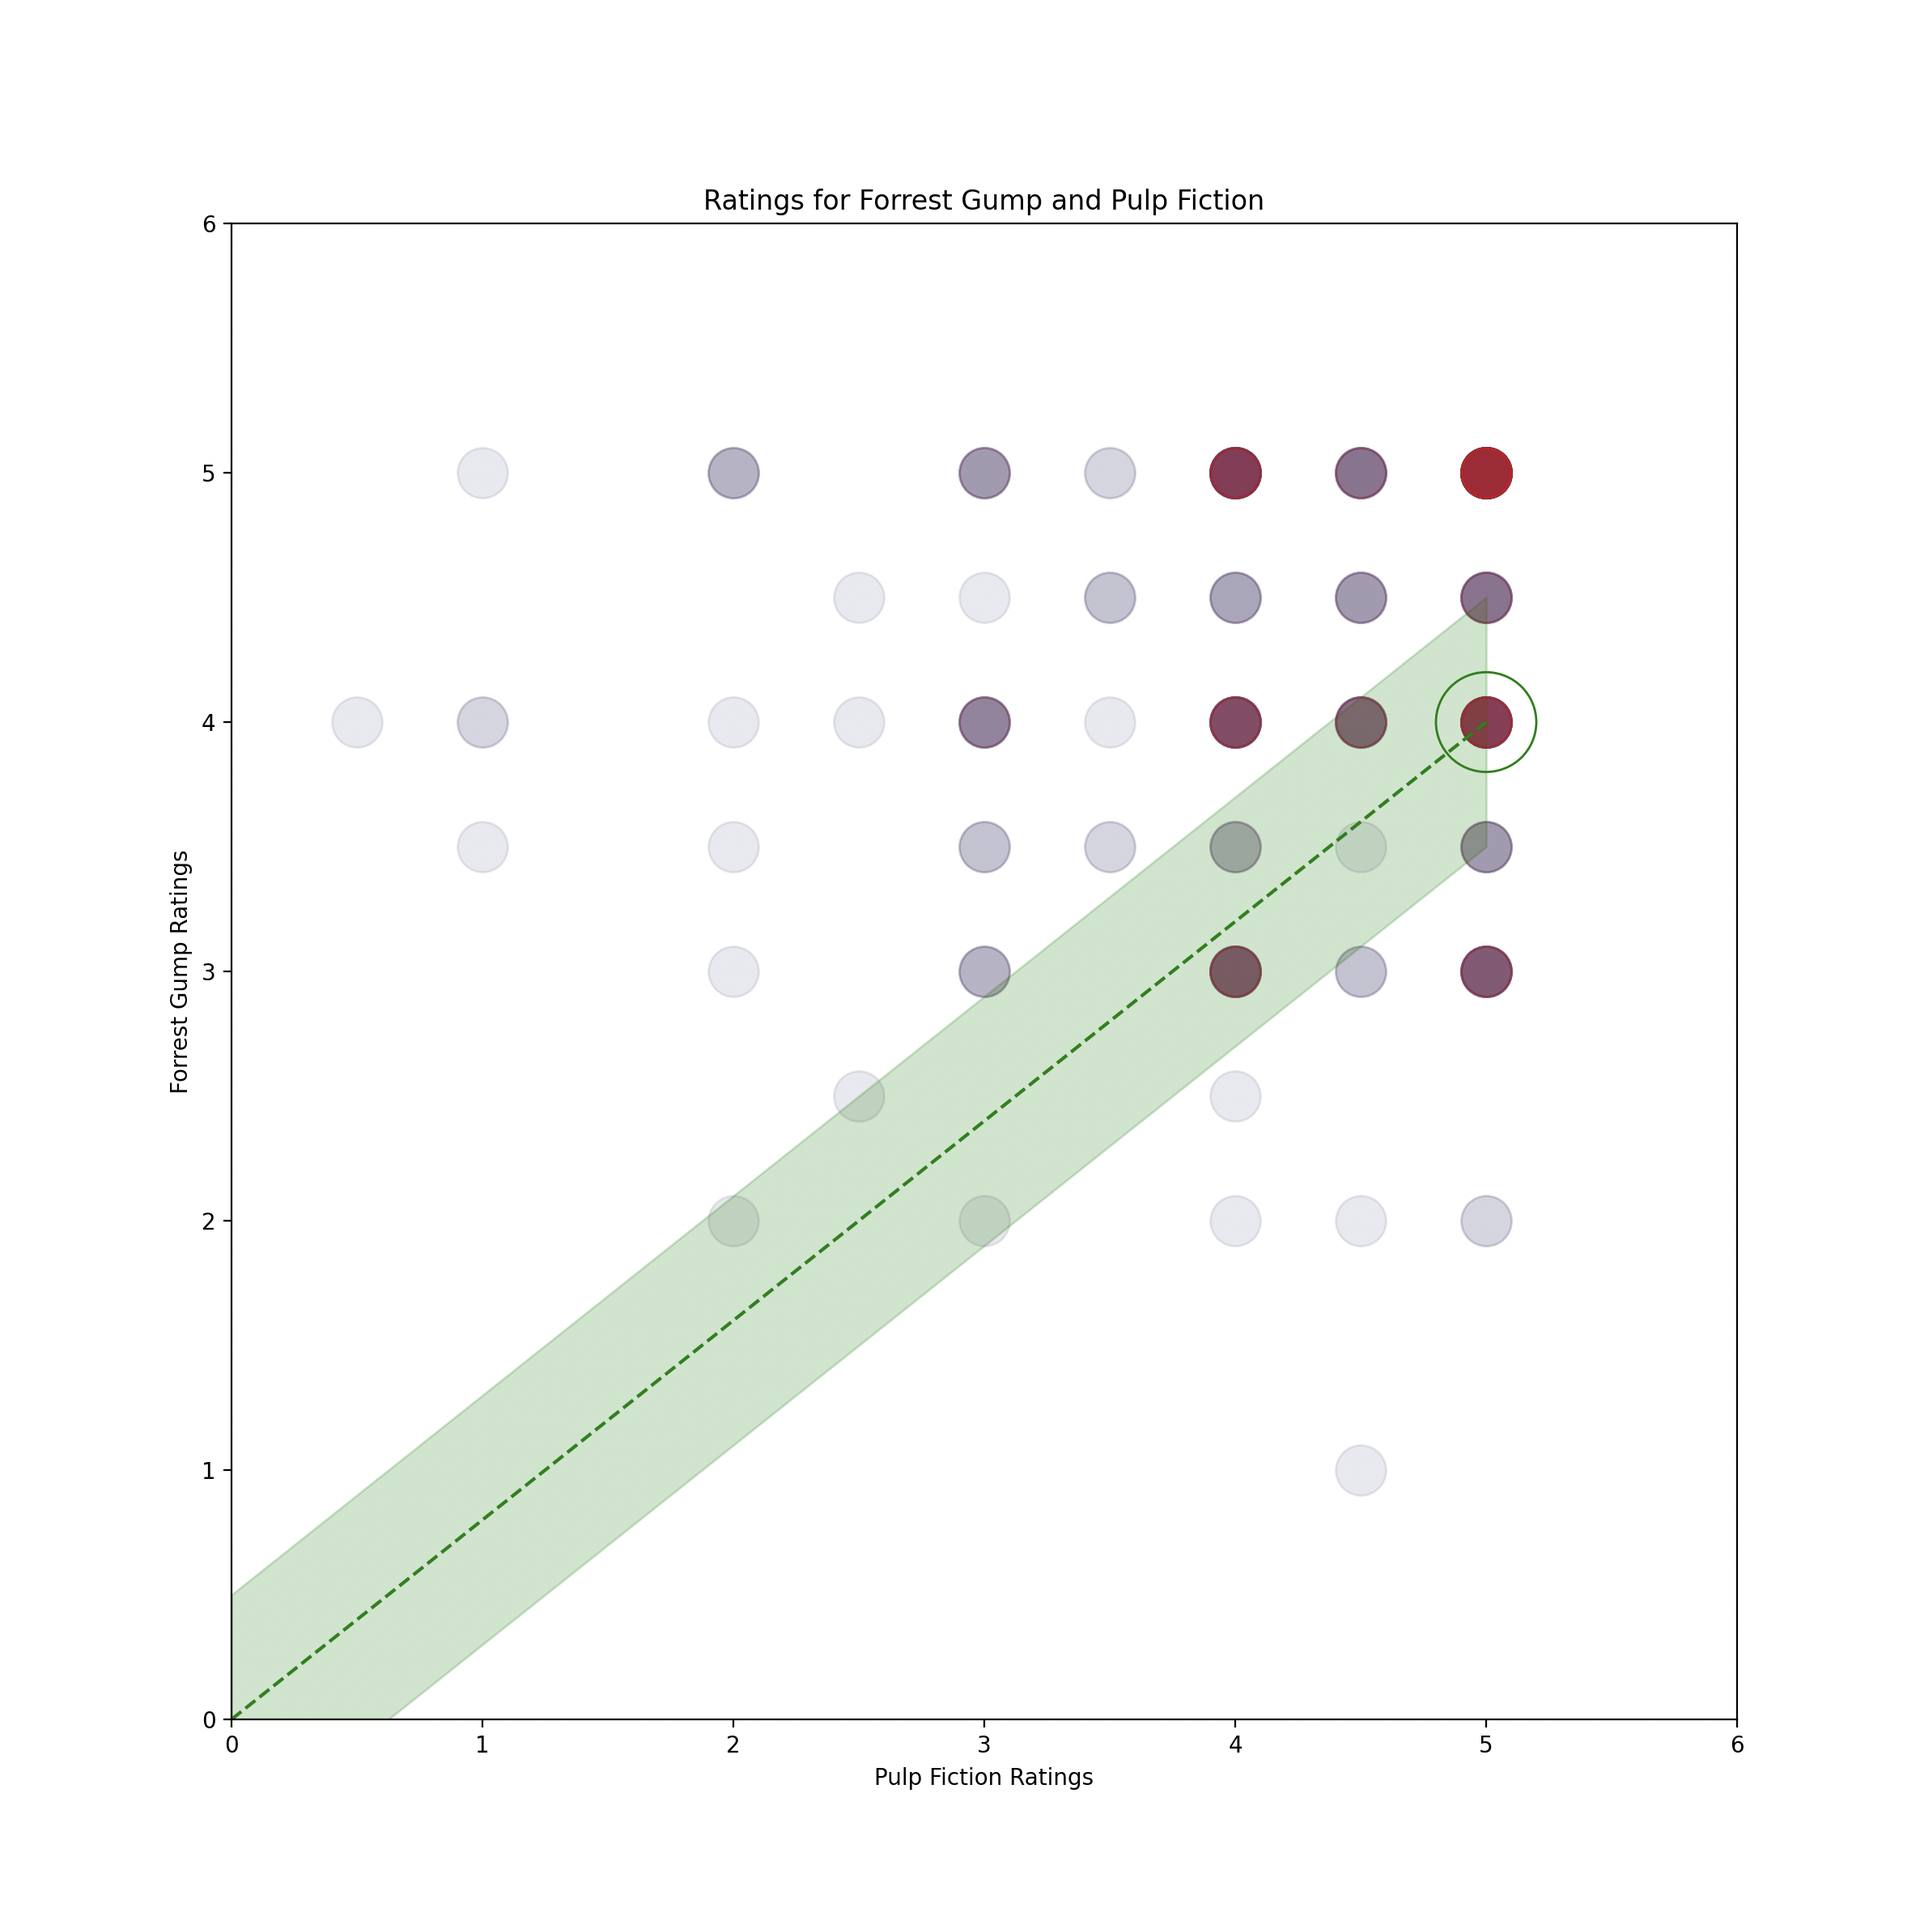
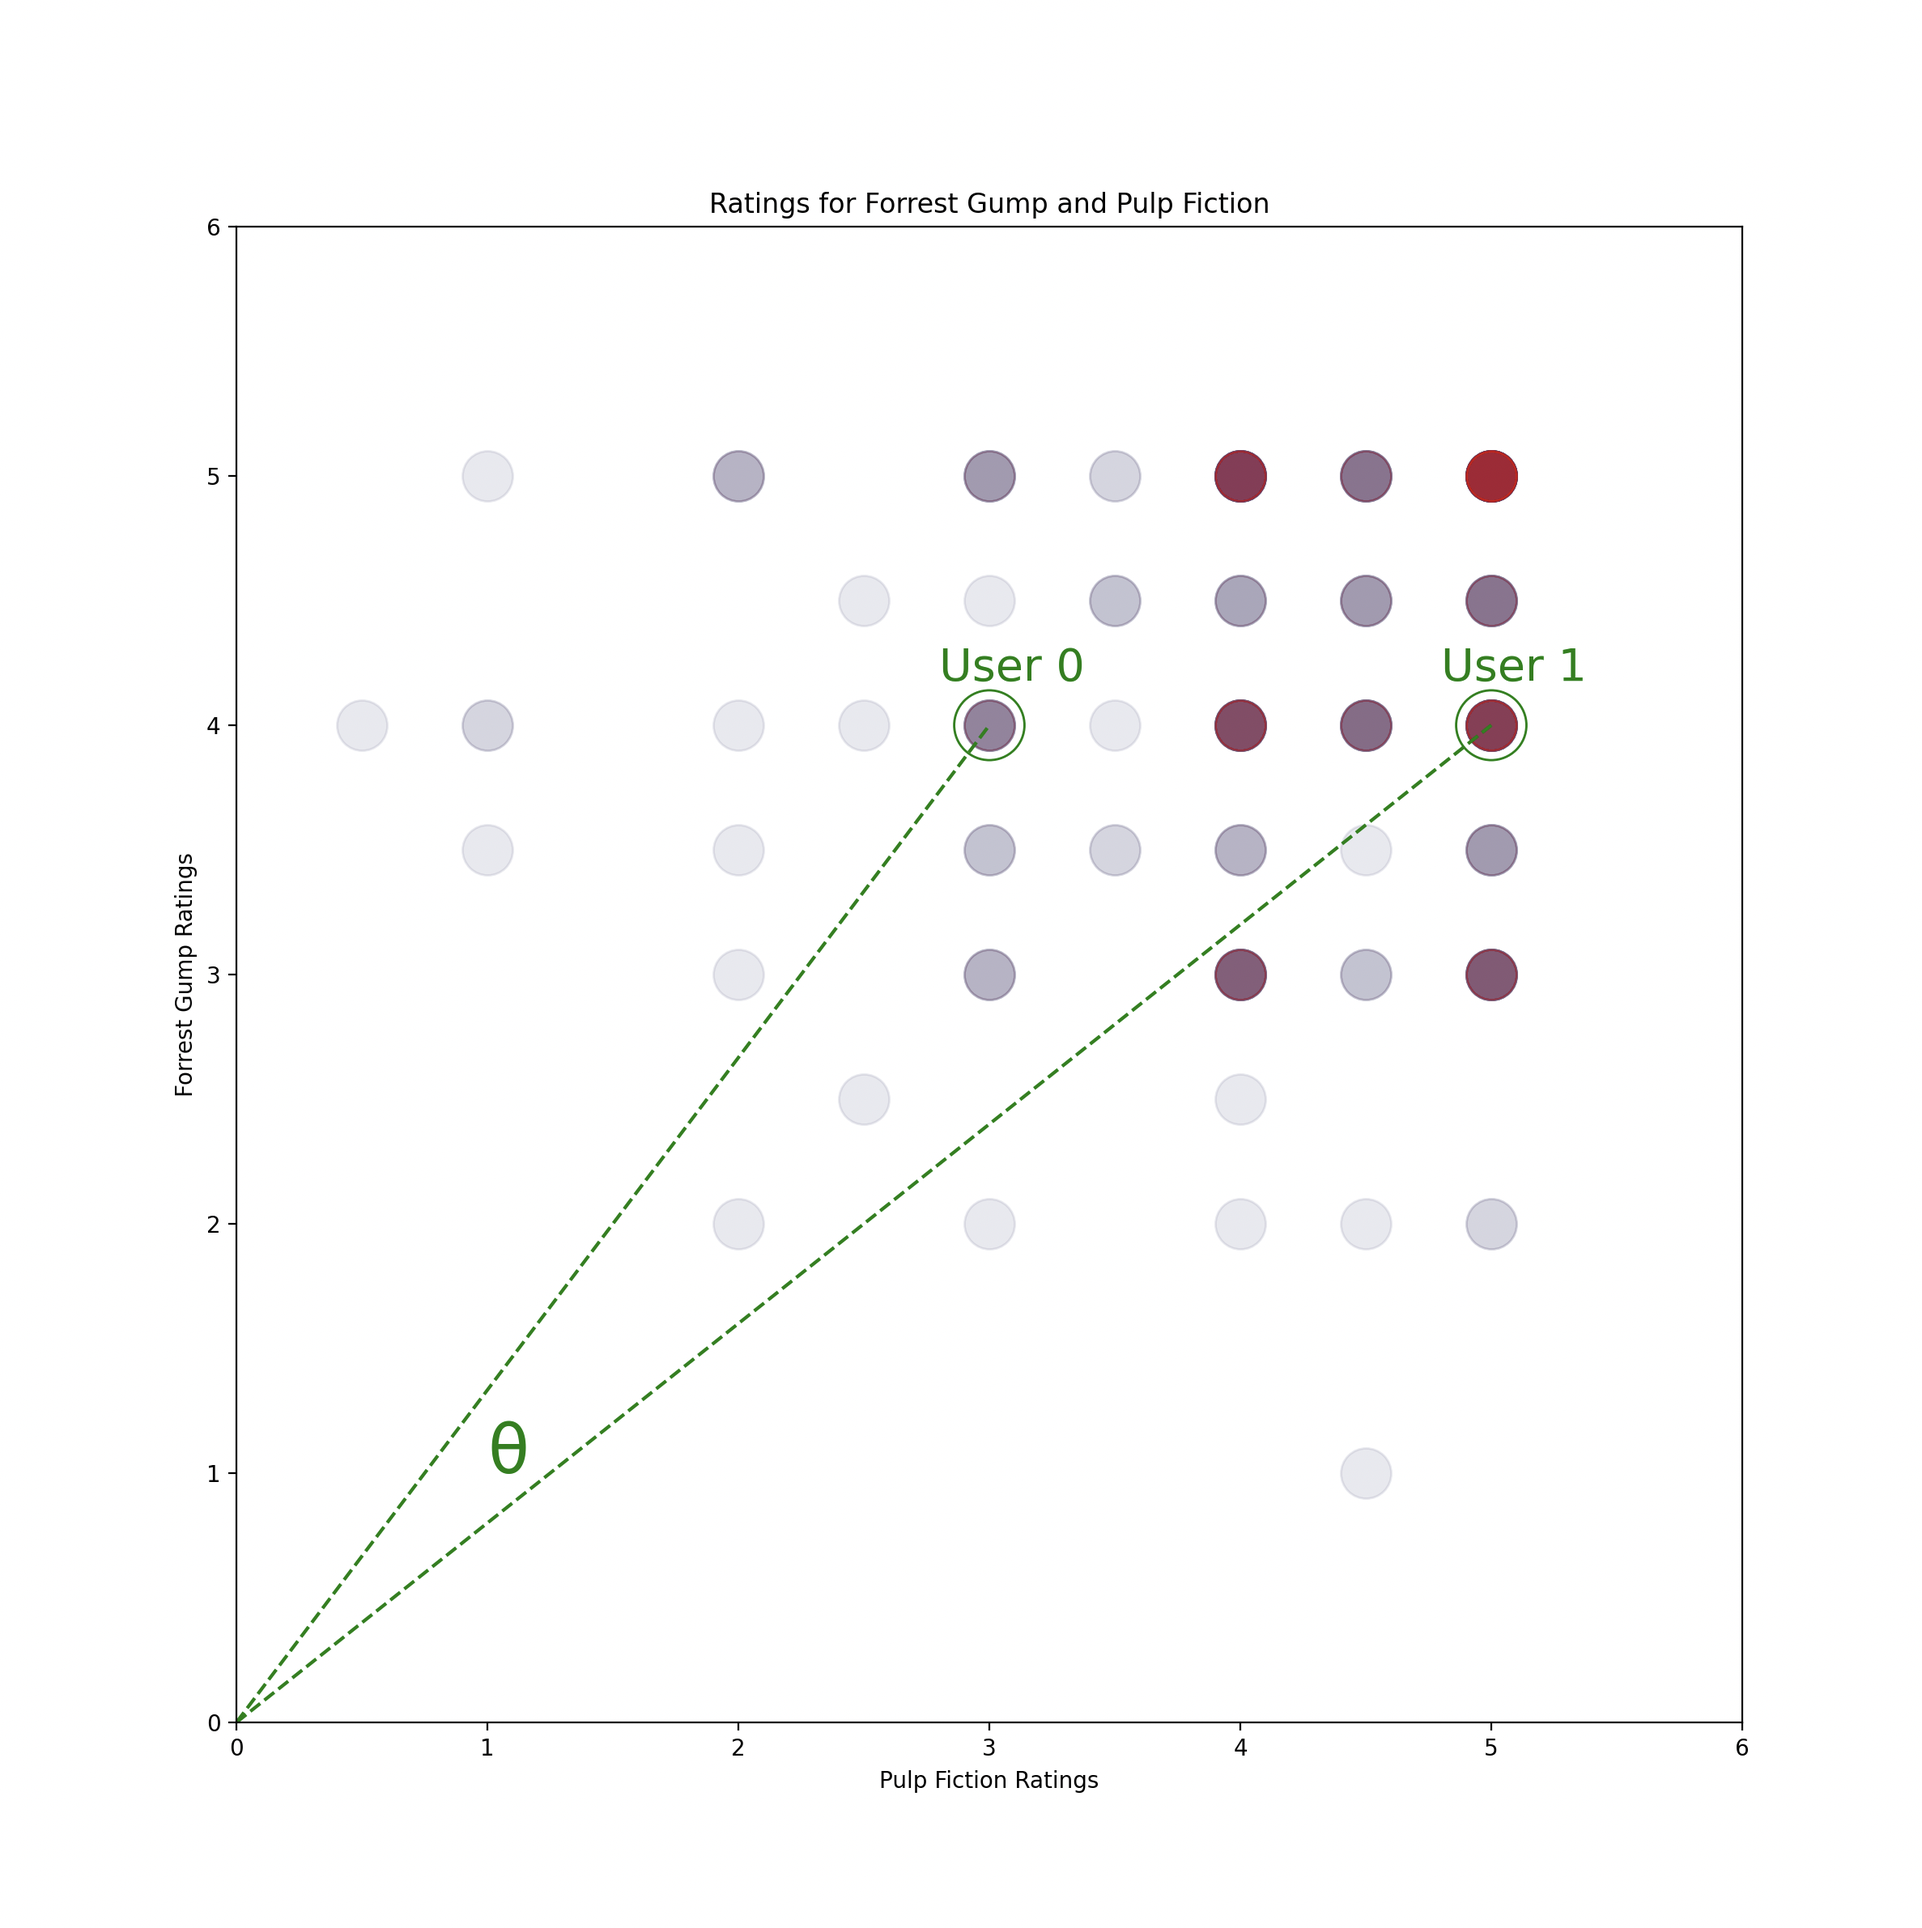
saving

diff --git a/nearest_neighbour_algorythm/cosign_similarity_example.py b/nearest_neighbour_algorythm/cosign_similarity_example.py
@@ -6,7 +6,7 @@
 #    By: quentinbeukelman <quentinbeukelman@stud      +#+                      #
 #                                                    +#+                       #
 #    Created: 2023/04/14 12:33:29 by quentinbeuk   #+#    #+#                  #
-#    Updated: 2023/04/14 12:51:29 by quentinbeuk   ########   odam.nl          #
+#    Updated: 2023/04/14 14:39:36 by quentinbeuk   ########   odam.nl          #
 #                                                                              #
 # **************************************************************************** #
 
@@ -63,8 +63,8 @@ def ft_scatter_plot(ratings, pulp_fiction_ratings, forrest_gump_ratings, body_pa
         plt.scatter(user_ratings['rating_pulp'], user_ratings['rating_gump'], color=color, alpha=0.03, s=500)
 
     plt.text(1, 1, r'θ', color='green', fontsize=30)
-    plt.text(4.8, 4.18, r'User 0', color='green', fontsize=20)
-    plt.text(2.8, 4.18, r'User 1', color='green', fontsize=20)
+    plt.text(4.8, 4.18, r'User 1', color='green', fontsize=20)
+    plt.text(2.8, 4.18, r'User 0', color='green', fontsize=20)
     
     # Set the plot title and axis labels
     plt.title('Ratings for Forrest Gump and Pulp Fiction')

diff --git a/nearest_neighbour_algorythm/cosign_similarity_matrix.py b/nearest_neighbour_algorythm/cosign_similarity_matrix.py
@@ -6,7 +6,7 @@
 #    By: quentinbeukelman <quentinbeukelman@stud      +#+                      #
 #                                                    +#+                       #
 #    Created: 2023/04/11 12:50:06 by quentinbeuk   #+#    #+#                  #
-#    Updated: 2023/04/14 13:56:17 by quentinbeuk   ########   odam.nl          #
+#    Updated: 2023/04/15 22:36:41 by quentinbeuk   ########   odam.nl          #
 #                                                                              #
 # **************************************************************************** #
 
@@ -142,8 +142,8 @@ def main():
     similarity_matrix = ft_similarity_matrix(ratings_table, user_ids)
     
 	# Write similarity matrix to CSV file
-    similarity_matrix_df = pd.DataFrame(similarity_matrix, index=user_ids, columns=user_ids)
-    similarity_matrix_df.to_csv('../data/cosign_similarity_matrix.csv', index=True, header=True)
+    # similarity_matrix_df = pd.DataFrame(similarity_matrix, index=user_ids, columns=user_ids)
+    # similarity_matrix_df.to_csv('../data/cosign_similarity_matrix.csv', index=True, header=True)
     
     # Heatmap
     plt.figure(figsize=(12,12))
